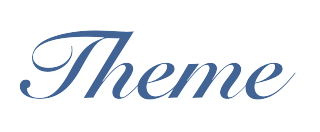
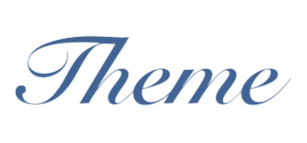
Fixed font sizes

Changed region(s): [[0.0293, 0.2121, 0.9674, 0.7576]]

diff --git a/src/App.js b/src/App.js
@@ -59,8 +59,8 @@ function App() {
 
           <div className='column'>
             <h2 className='parentsList'>PARENTS OF THE GROOM</h2>
-            <h2>Roy A. Villarosa</h2>
-            <h2>Ma. Carmela M. Benipayo</h2>
+            <h2>Roy A. Villarosa </h2>
+            <h2>Ma. Carmela M. Benipayo </h2>
             </div>
           </div>
 
@@ -71,7 +71,7 @@ function App() {
               <h2>Anjanette Juan</h2>
               <h2>Ronald Juan</h2>
               <h2>Carmeliza Imson</h2>
-              <h2>Kristine Co</h2>
+              <h2>Severing Imson</h2>
               <h2>Aurora Cruz</h2>
               <h2>Mylene Talens</h2>
             </div>
@@ -80,6 +80,7 @@ function App() {
               <h2>Emmanuel Peña Jr.</h2>
               <h2>Joycelyn Peña</h2>
               <h2>Maria Patricia Sison</h2>
+              <h2>Kristine Co</h2>
               <h2>Annette Ty</h2>
               <h2>Laarnie Burias</h2>
             </div>

diff --git a/src/App.scss b/src/App.scss
@@ -389,7 +389,7 @@ body {
   margin-top: 50px;
 
   .Attire-Text {
-    width: 50%;
+    width: 40%;
     height: auto;
 
   }
@@ -429,7 +429,7 @@ body {
   margin-top: 10px;
 
   .Theme-Text {
-    width: 50%;
+    width: 40%;
     height: auto;
 
   }
@@ -491,7 +491,7 @@ body {
   margin-top: 10px;
 
   .how-to-get-there-Text{
-    width: 100%;
+    width: 75%;
     height: auto;
 
   }
